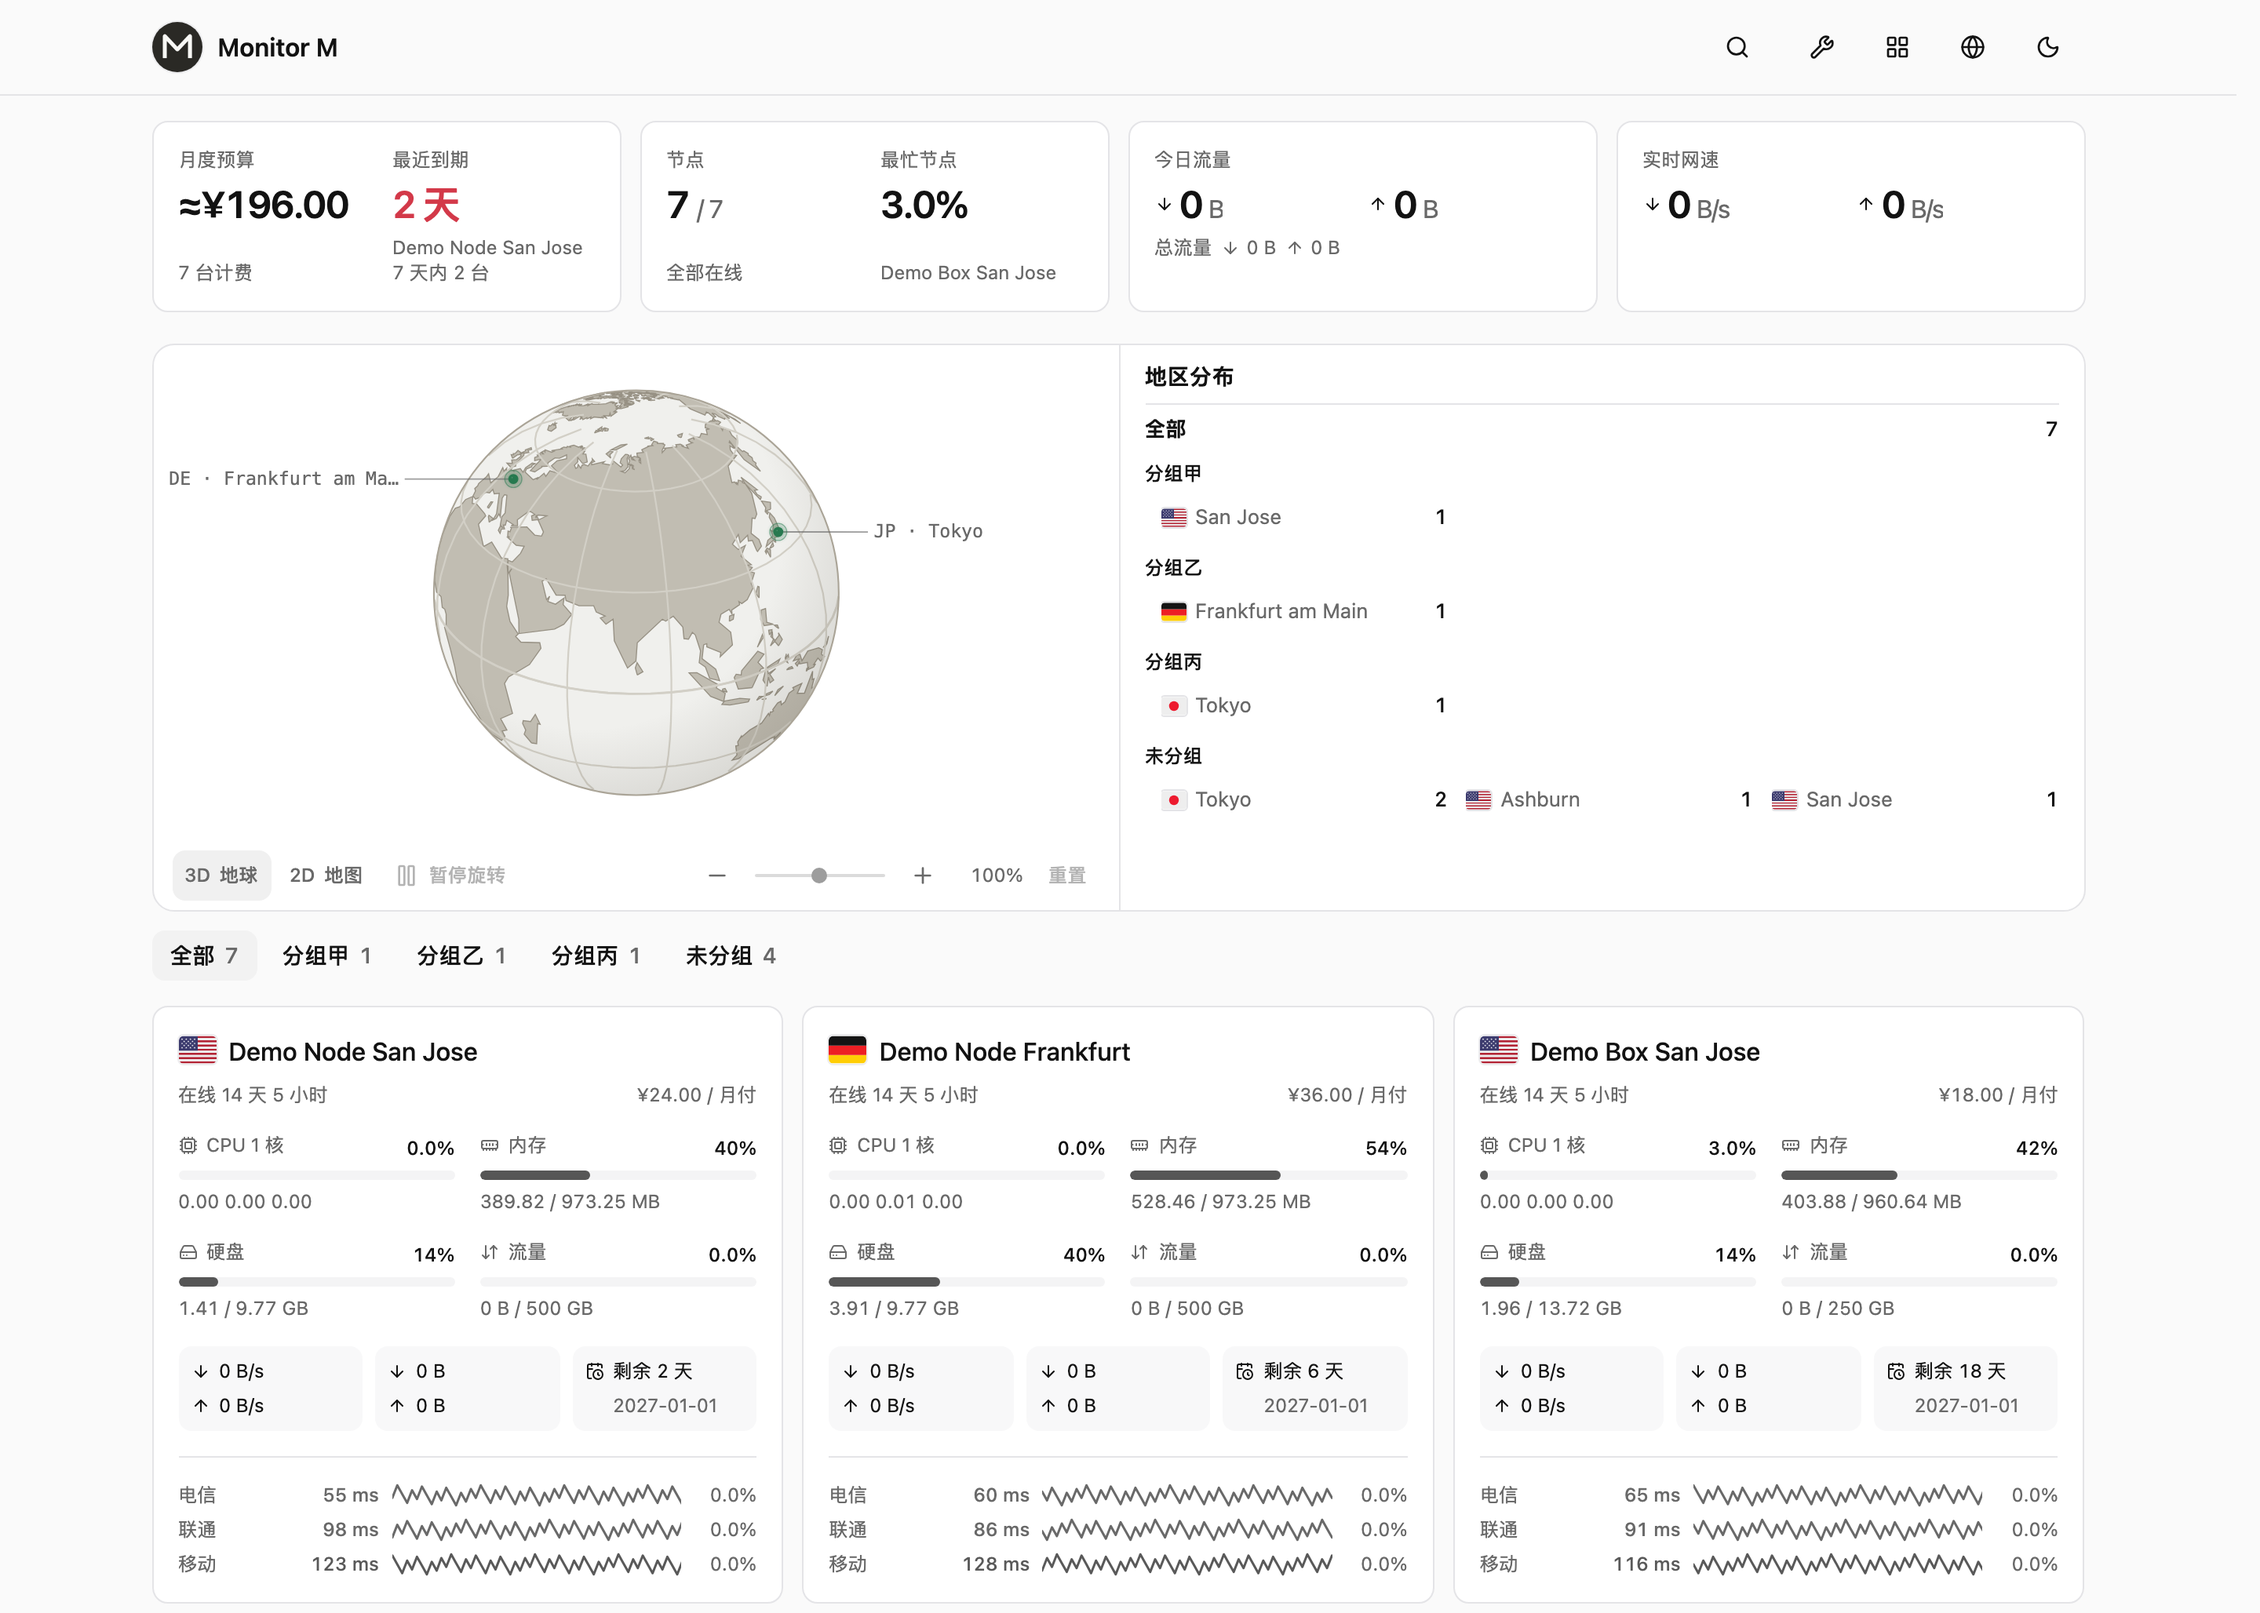
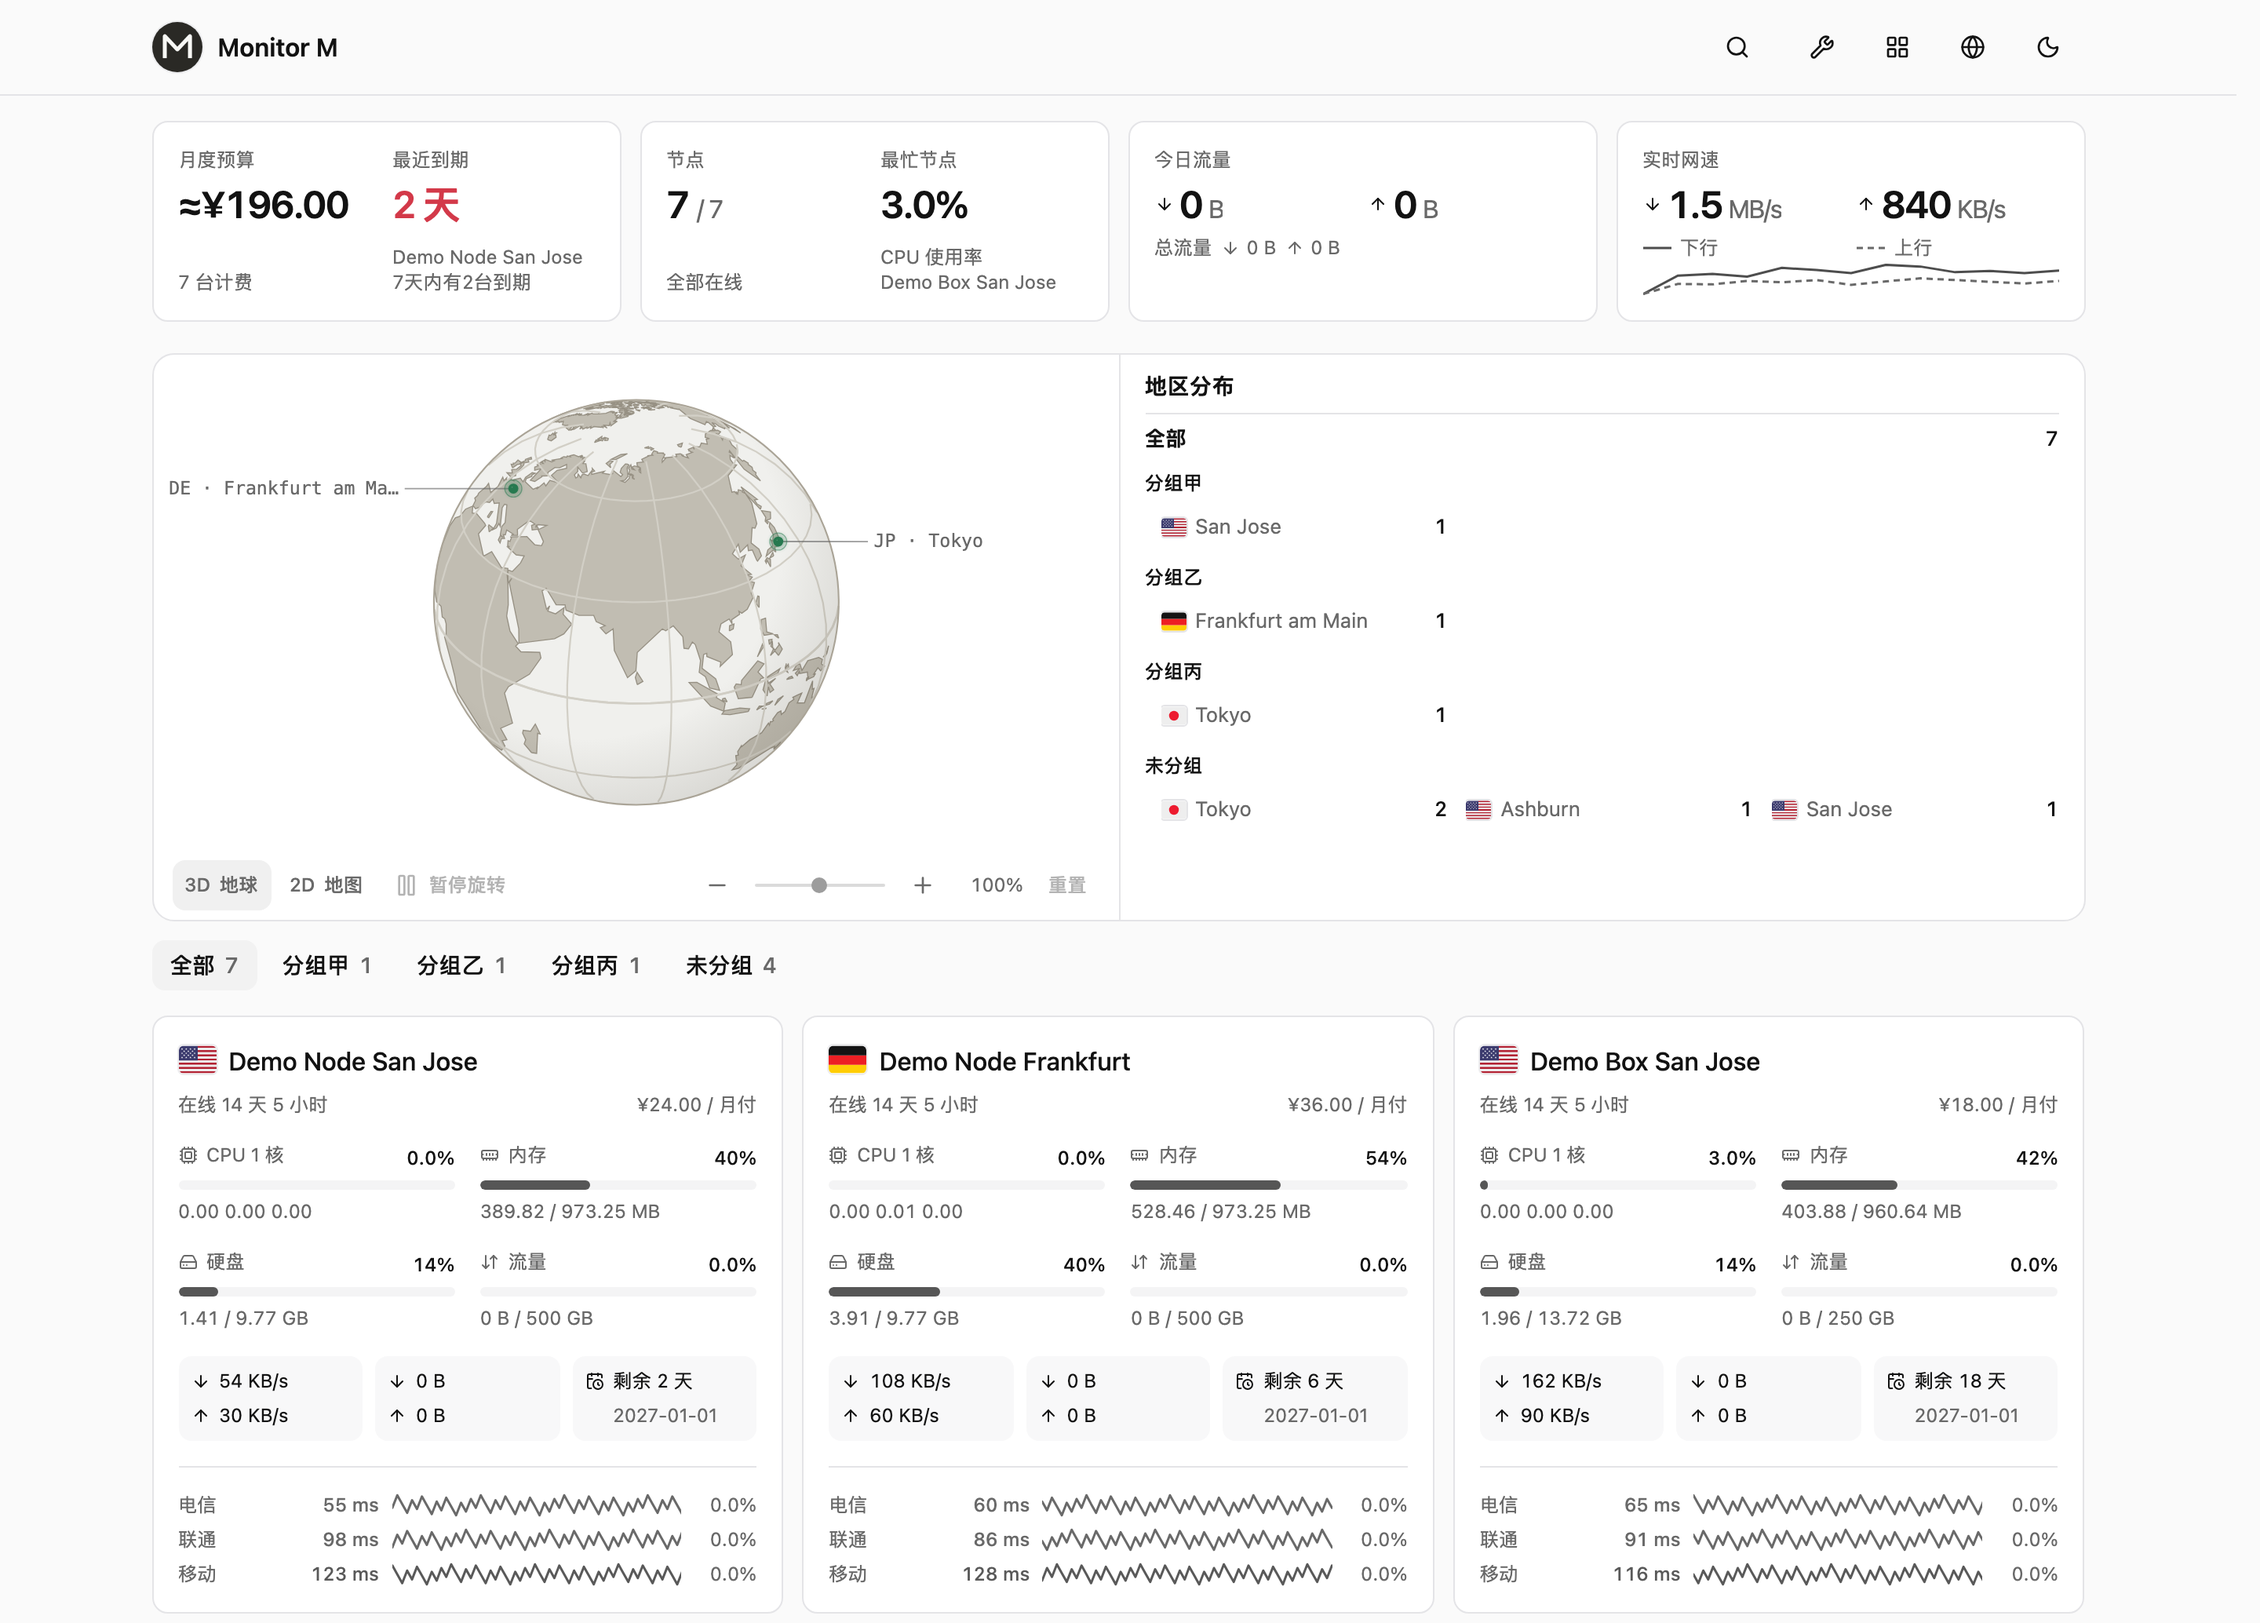
Clarify expiry, CPU usage and traffic directions in the overview (1.41.2)

diff --git a/src/components/Summary.tsx b/src/components/Summary.tsx
@@ -202,6 +202,10 @@ function Unit({ children }: { children: string }) {
 // 「一直很忙」和「偶尔抖一下」画成同一个形状。
 const W = 100
 const H = 28
+const speedTraces = [
+  { key: "rx", label: "下行", style: "实线", dash: undefined, color: "text-foreground/75" },
+  { key: "tx", label: "上行", style: "虚线", dash: "4 3", color: "text-muted-foreground" },
+] as const
 
 /**
  * 实时网速下面那条走势线：下行 / 上行两条折线，无坐标轴、无填充——这一块只说
@@ -221,17 +225,23 @@ function Sparkline({ series }: { series: { rx: number; tx: number }[] }) {
       .map((s, i) => `${((i / (series.length - 1)) * W).toFixed(2)},${(H - 1 - (pick(s) / max) * (H - 2)).toFixed(2)}`)
       .join(" ")
   return (
-    /* 走势线的高度照着参考站那条来（那边约 22px）：这一格是卡片里唯一不是文字的东西，
-       高了整行四张卡就不再等高（护栏钉着「四张卡等高」）。 */
-    <div className="mt-1 h-5">
-      {ready && (
-        <svg className="h-full w-full" viewBox={`0 0 ${W} ${H}`} preserveAspectRatio="none" aria-hidden="true">
-          {/* 下行用前景色、上行用弱化灰：与卡片网络区那两个方向的读法一致
-              （速率用前景色、累计用灰），深浅色下都跟着同一套变量走。 */}
-          <polyline points={line((s) => s.rx)} fill="none" strokeWidth={1} vectorEffect="non-scaling-stroke" className="stroke-foreground/70" />
-          <polyline points={line((s) => s.tx)} fill="none" strokeWidth={1} vectorEffect="non-scaling-stroke" className="stroke-muted-foreground/60" />
-        </svg>
-      )}
+    <div className="mt-1">
+      <div className="grid grid-cols-2 gap-x-2 text-xs text-muted-foreground">
+        {speedTraces.map(({ key, label, style, dash, color }) => (
+          <span key={key} className="flex items-center gap-1.5" title={`${label} · ${style}`}>
+            <svg aria-hidden="true" width="18" height="4" className={color} data-transfer={key}>
+              <line x1="0" x2="18" y1="2" y2="2" stroke="currentColor" strokeDasharray={dash} strokeWidth="1.5" />
+            </svg>
+            {label}
+          </span>
+        ))}
+      </div>
+      <svg className="mt-0.5 h-5 w-full" viewBox={`0 0 ${W} ${H}`} preserveAspectRatio="none" aria-hidden="true">
+        {ready && speedTraces.map(({ key, dash, color }) => (
+          <polyline key={key} points={line((s) => s[key])} data-transfer={key} className={color}
+            fill="none" stroke="currentColor" strokeWidth={1.5} strokeDasharray={dash} vectorEffect="non-scaling-stroke" />
+        ))}
+      </svg>
     </div>
   )
 }
@@ -257,11 +267,14 @@ function NodesBlock({ fleet, searching = false }: { fleet: Fleet; searching?: bo
 /** 「最忙节点」那块读数：CPU 占用最高的在线节点。 */
 function BusiestBlock({ fleet }: { fleet: Fleet }) {
   return (
-    <Block title="最忙节点">
+    <Block title="最忙节点" hint="当前筛选范围内 CPU 使用率最高的在线节点">
       {/* 一位小数，与卡片里 CPU 那格同一个口径。 */}
       <Big>{fleet.busiest ? `${fleet.busiest.cpu.toFixed(1)}%` : "—"}</Big>
       <Foot>
-        {fleet.busiest ? fleet.busiest.name : "无在线节点"}
+        {fleet.busiest ? <>
+          <div>CPU 使用率</div>
+          <div className="truncate" title={fleet.busiest.name}>{fleet.busiest.name}</div>
+        </> : "无在线节点"}
       </Foot>
     </Block>
   )
@@ -313,7 +326,7 @@ export function SummaryCards({ nodes, finance = false, searching = false, exchan
               </Big>
               <Foot>
                 <div className="truncate" title={next?.name}>{next ? next.name : "无待到期节点"}</div>
-                <div data-expiry-week="">7 天内 {expiry.withinWeek} 台</div>
+                <div data-expiry-week="" className="whitespace-normal">7天内有{expiry.withinWeek}台到期</div>
                 {expiry.expired > 0 && <div data-readout="expiry-urgent">已过期 {expiry.expired} 台</div>}
               </Foot>
             </Block>

diff --git a/GUIDE.md b/GUIDE.md
@@ -136,7 +136,8 @@ Hub 提供 `step` 桶宽时，整桶省略的区间也保留断点；旧 Hub 没
 ## 月度预算与到期
 
 原版概览显示在线节点、最忙节点、今日与累计流量、实时网速。
-计费版增加月度预算与最近到期。实时网速下方的趋势从打开页面后开始累积，刷新后重新记录。
+「最忙节点」显示当前筛选范围内 CPU 使用率最高的在线节点及其使用率。实时网速图的下行使用实线，上行使用虚线，图例与上方两列读数对应。趋势从打开页面后开始累积，刷新后重新记录。
+计费版另显示月度预算与最近到期。
 
 月度预算按周期摊销到月后相加，支持命名周期与 `1m`–`1200m` 自定义月数；无效或空周期回退按月计算。
 排除零价、未填价格和一次性买断；外币按每日参考汇率折成人民币并标记 `≈`。
@@ -144,7 +145,7 @@ Hub 提供 `step` 桶宽时，整桶省略的区间也保留断点；旧 Hub 没
 
 最近到期独立于价格与汇率，排除一次性买断及无有效到期信息的节点，优先使用 `expires_in`，
 旧 Hub 缺少天数时按 `expires_at` 回退。显示下一台待到期节点名称与剩余天数，同日到期保留列表顺序。
-今天显示「今天到期」，7 天内统计包含今天及第 7 天；少于 7 天橙色，少于 3 天红色。
+今天显示「今天到期」，「7天内有 X 台到期」的统计包含今天及第 7 天；少于 7 天橙色，少于 3 天红色。
 已过期台数单独提示，不挤占下一台待到期节点。长名称省略，可悬停查看全文。
 
 ### 汇率

diff --git a/README.md b/README.md
@@ -5,7 +5,7 @@
 
 [下载安装](https://github.com/mghts/monitor-theme-jikasei/releases/latest) · [使用说明](GUIDE.md) · [反馈问题](https://github.com/mghts/monitor-theme-jikasei/issues)
 
-![Monitor M 桌面预览，使用演示数据](preview-desktop.png?v=1.41.1)
+![Monitor M 桌面预览，使用演示数据](preview-desktop.png?v=1.41.2)
 
 ## 功能
 
@@ -46,7 +46,7 @@ shasum -a 256 -c theme.tar.gz.sha256
 |:---:|:---:|
 | ![亮色地图](preview-globe.png?v=1.41.1) | ![暗色地图](preview-globe-dark.png?v=1.41.1) |
 
-<img src="preview-mobile.png?v=1.41.1" alt="手机列表页" width="260">
+<img src="preview-mobile.png?v=1.41.2" alt="手机列表页" width="260">
 
 </details>
 
